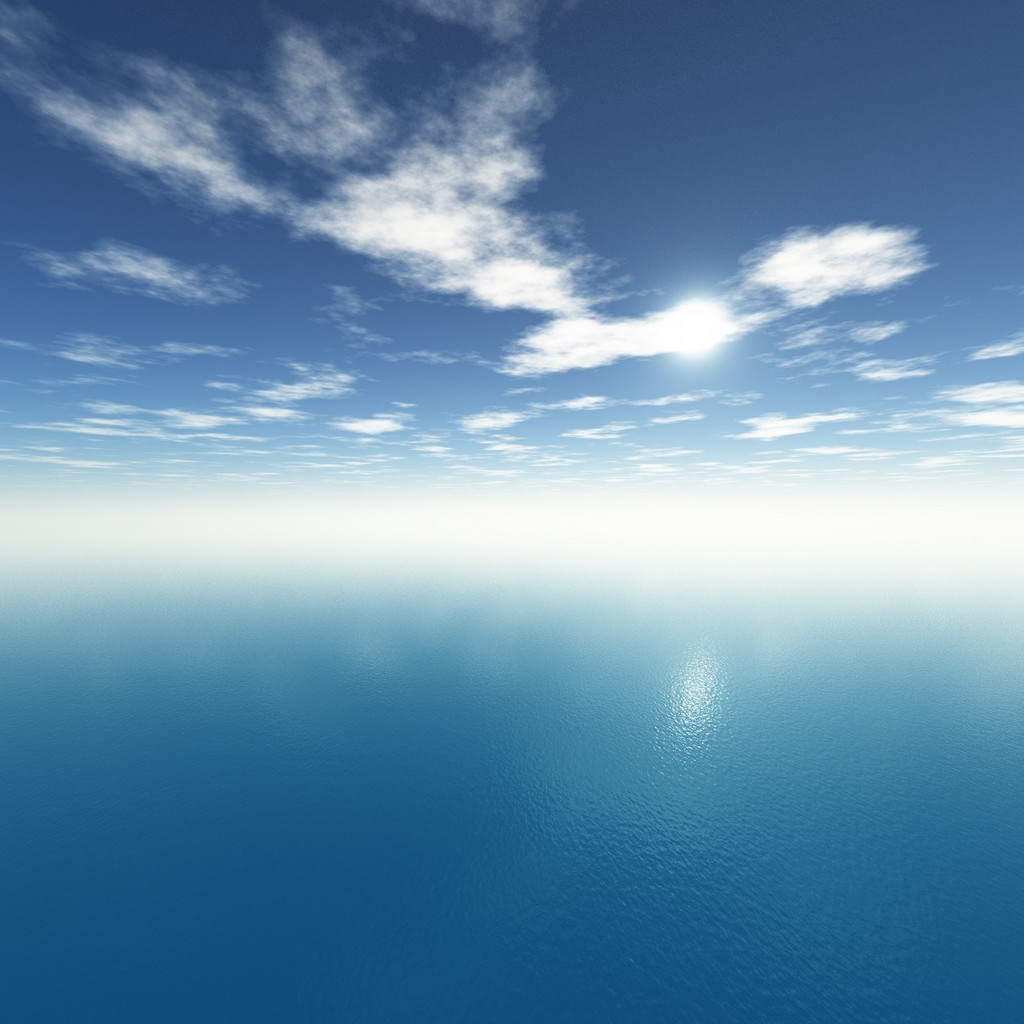
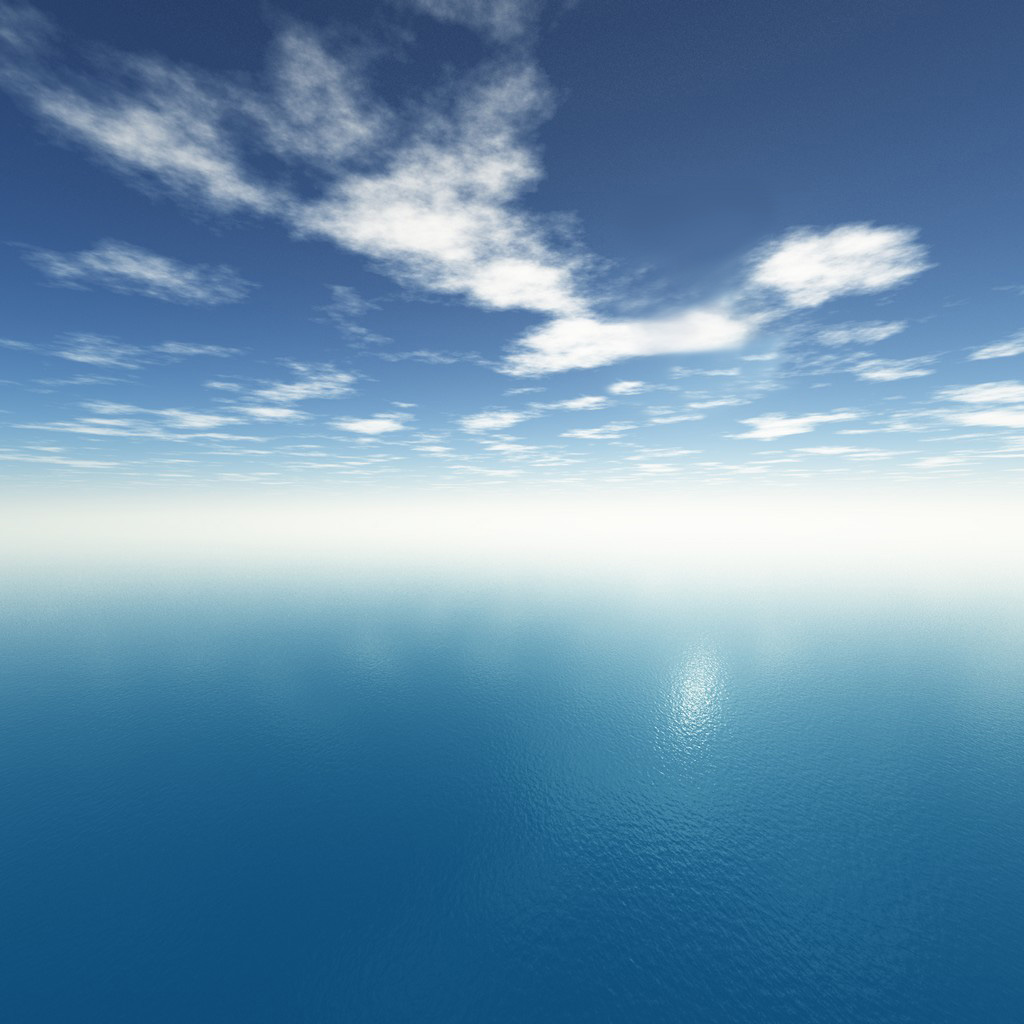
Directional light to per fragment light , directional light specular effect, removed sun from sky box

Changed region(s): [[0.5938, 0.25, 0.8438, 0.4062]]

diff --git a/3dgp/main.cpp b/3dgp/main.cpp
@@ -76,7 +76,8 @@ bool TextureSetup(const char textureName[], GLuint& textureId, GLuint textureNr)
 	glGenTextures(1, &textureId);
 	glBindTexture(GL_TEXTURE_2D, textureId);
 
-	//GL_LINEAR_MIPMAP_LINEAR fo minimilisation
+
+	//GL_LINEAR_MIPMAP_LINEAR fo minimilisation (GL_EXT_texture_filter_anisotropic for testing looks the same)
 	glTexParameteri(GL_TEXTURE_2D, GL_TEXTURE_MIN_FILTER, GL_LINEAR_MIPMAP_LINEAR); // GL_CLAMP for skybox  GL_LINEAR_MIPMAP_LINEAR - for resizing
 	glTexImage2D(GL_TEXTURE_2D, 0, GL_RGBA, bm.getWidth(), bm.getHeight(), 0, GL_RGBA,
 	GL_UNSIGNED_BYTE, bm.getBits());
@@ -163,7 +164,7 @@ bool init()
 		 return false;
 
 	 program.sendUniform("texture0", 0);
-	 program.sendUniform("textureNormal", 2);
+	 program.sendUniform("textureNormal", 2); // why 2 not 1??? It's an ancient religion
 
 	if (!skybox.load
 	(
@@ -227,9 +228,9 @@ void Directional()
 	float ambientColor = 0;
 
 	if (DayRotationAngle  < 180)
-		ambientColor = dayFraction ;
+		ambientColor = dayFraction * 2;
 	else if (DayRotationAngle < 360 )
-		ambientColor = (1 - dayFraction);
+		ambientColor = (2 - dayFraction * 2);
  
 	// Calculate the sun's position in the sky
 	float lightX = sin(radians(DayRotationAngle / 2)); // Light movement along X axis (180 degreee onle where 0 = 0 & 180 = 1)
@@ -239,6 +240,9 @@ void Directional()
 	//Directional Light
 	program.sendUniform("lightDir.direction", vec3(lightX, lightY, 0)) ;
 	program.sendUniform("lightDir.diffuse", vec3(ambientColor, ambientColor, ambientColor)); // set "lightDir.diffuse", vec3(0.0, 0.0, 0.0) to switch off
+
+	//Specular reflection
+	program.sendUniform("lightDir.specular", vec3(0.5f, 0.5f, 0.5f));
 }
 
 // Ambient light is considered to be the light that was reflected for so many times that it appears to be emanating from everywhere.
@@ -313,7 +317,7 @@ void SkyBoxAndDayCalculation()
 
 	if (isItNight)
 	{
-		m = rotate(m, radians(DayRotationAngle / 1.5f), { 1,0,0 });
+		m = rotate(m, radians(DayRotationAngle / 1.4f), { 0,0,1 });
 		NightSkybox.render(m);
 	}
 	else
@@ -377,6 +381,9 @@ void streetLampFun(float x , float y, float z , string shaderNamePos, string sha
 	//reset Ambient Light And redner StreetLamp
 	program.sendUniform("lightAmbient.color", vec3(1.1, 1.1, 1.1));
 
+	//shine for street lamp
+	program.sendUniform("materialSpecular", vec3(0.15, 0.15, 0.15));  
+
 	streetLamp.render(setMatrix({ x, y - 4, z }, 0.f, { 0.0f, 1.0f, 0.0f }, { 0.03f,  0.03f ,  0.03f }, { 0.1f,  0.1f, 0.15f }));
 }
  
@@ -405,7 +412,7 @@ void renderScene(mat4& matrixView, float time, float deltaTime)
 	glBindTexture(GL_TEXTURE_2D, idTexSnow);
 
 	program.sendUniform("materialSpecular", vec3(0.1, 0.1, 0.1)); 	//shininess
-	terrain.render(setMatrix({ 0.f, 0.f, 0.f }, 0.f, { 0.0f, 1.0f, 0.0f }, { 1.f,  1.f ,  1.f }, { 1.f, 1.f, 1.f }));
+	terrain.render(setMatrix({ 0.f, 0.f, 0.f }, 0.f, { 0.0f, 1.0f, 0.0f }, { 1.f,  1.f ,  1.f }, { 1.2f, 1.2f, 1.2f }));
 
 	//Road
 	program.sendUniform("materialSpecular", vec3(1, 1, 1.5)); 	//shininess
@@ -504,7 +511,7 @@ void onKeyDown(unsigned char key, int x, int y)
 	case 'e': _acc.y = accel; break;
 	case 'q': _acc.y = -accel; break;
 	//sunsetColorDivider = 1; just to avoid bug if sunset color is not 1 and we sudenly increasing time, day or night can be become red
-	case 'n': timeAccelerator += 1.f; sunsetColorDivider = 1; break;
+	case 'n': timeAccelerator += 5.f; sunsetColorDivider = 1; break;
 	case 'm': timeAccelerator = 1; break;
 	case '1': AreLeftLampsOff >= 2 ? AreLeftLampsOff = 0 : AreLeftLampsOff++; break; // just resets int when is over 2 or increase if it's not over
 	case '2': AreRightLampsOff >= 2 ? AreRightLampsOff = 0 : AreRightLampsOff++; break; // just resets int when is over 2 or increase if it's not over
